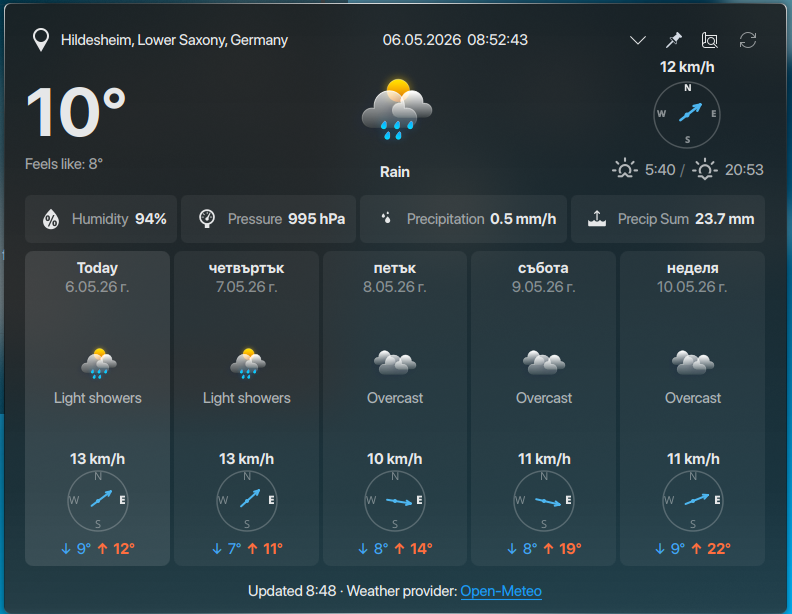
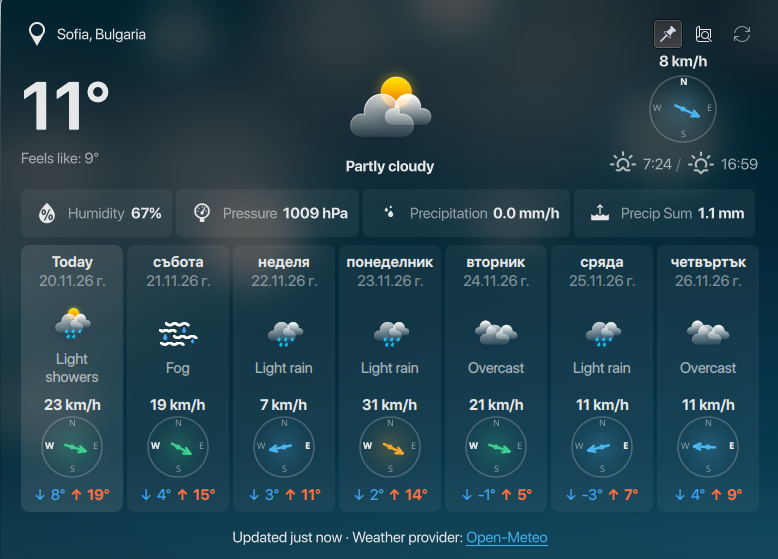
doc: update README.md screenshots

diff --git a/README.md b/README.md
@@ -141,24 +141,58 @@ python3 scripts/build_librewxr_map.py --librewxr /path/to/LibreWXR
 ### Widget layouts
 | Advanced mode (cards) | Advanced mode (list) |
 |:---:|:---:|
-| <img src="screenshots/widget/advanced/advanced mode (cards).png" width="400" alt="Advanced mode (cards)"> | <img src="screenshots/widget/advanced/advanced mode (list).png" width="400" alt="Advanced mode (list)"> |
-| Modern cards. | A clean list view. |
+| <video src="https://github.com/user-attachments/assets/ebad95fc-fb09-4e83-9db7-9eaf9e04df71" width="400" controls loop muted playsinline></video> | <img src="screenshots/widget/advanced/advanced mode (list).png" width="400" alt="Advanced mode (list)"> |
+| Animated cards (collapsed/expanded) | A clean list view |
 
-| Simple mode (default) | Super simple |
-|:---:|:---:|
-| <img src="screenshots/widget/simple/simple mode (default).png" width="400" alt="Simple mode"> | <img src="screenshots/widget/simple/super simple.png" width="400" alt="Super simple mode"> |
-| Focused view for weather without the tabs. | The most minimal view. |
-
-### Tabs
-| Forecast (strip) | Forecast (cards) | Weather maps |
+| Simple mode (default) | Simple mode (graphs) | Super simple |
 |:---:|:---:|:---:|
-| <img src="screenshots/widget/tabs/forecast-strip.png" width="300" alt="Forecast tab (strip)"> | <img src="screenshots/widget/tabs/forecast.png" width="300" alt="Forecast tab (cards)"> | <img src="screenshots/widget/tabs/radar.png" width="300" alt="Weather maps tab"> |
+| <img src="screenshots/widget/simple/simple mode (default).png" width="400" alt="Simple mode (default)"> | <img src="screenshots/widget/simple/simple mode (graphs).png" width="400" alt="Simple mode (graphs)"> | <img src="screenshots/widget/simple/super simple.png" width="400" alt="Super simple mode"> |
+| Focused view for weather without the tabs | Forecast data shown with interactive graphs | The most minimal view |
+
+### Forecast
+| Standard daily / hourly cards | Standard daily / hourly graphs | Standard daily / hourly strip |
+|:---:|:---:|:---:|
+| <img src="screenshots/widget/forecast/daily (standard)-hourly (cards).png" width="400" alt="Standard daily and hourly cards"> | <img src="screenshots/widget/forecast/daily (standard)-hourly (graphs).png" width="400" alt="Standard daily and hourly graphs"> | <img src="screenshots/widget/forecast/daily (standard)-hourly (strip).png" width="400" alt="Standard daily and hourly strip"> |
+
+| Graph daily / hourly cards | Graph daily / hourly strip |
+|:---:|:---:|
+| <img src="screenshots/widget/forecast/daily (graphs)-hourly (cards).png" width="400" alt="Graph daily and hourly cards"> | <img src="screenshots/widget/forecast/daily (graphs)-hourly (strip).png" width="400" alt="Graph daily and hourly strip"> |
+
+| Expanded graphs | Compact graphs |
+|:---:|:---:|
+| <video src="https://github.com/user-attachments/assets/ea31e407-8ad3-4e4d-93f9-be4018ffee4d" width="400" controls loop muted playsinline></video> | <video src="https://github.com/user-attachments/assets/e914e796-e6f0-461d-8e86-c1ba1cab921b" width="400" controls loop muted playsinline></video> |
+| Expanded graphs for daily and hourly forecasts | Compact daily and forecast graphs |
+
+### Weather Map
+| Overview |
+|:---:|
+| <video src="https://github.com/user-attachments/assets/78316480-1346-43d8-83fb-fe6132170b40" width="800" controls loop muted playsinline></video> |
+
+| Plain map | 3D globe with day and night | Radar and satellite |
+|:---:|:---:|:---:|
+| <img src="screenshots/widget/map/plain map.png" width="400" alt="Plain map"> | <img src="screenshots/widget/map/3d globe with day and night.png" width="400" alt="3D globe with day and night"> | <img src="screenshots/widget/map/radar and satellite.png" width="400" alt="Radar and satellite map"> |
+
+| Isobars, rain and clouds | Temperature layer | Humidity |
+|:---:|:---:|:---:|
+| <img src="screenshots/widget/map/isobar-rain-clouds.png" width="400" alt="Isobars, rain and clouds map"> | <img src="screenshots/widget/map/temperature layer.png" width="400" alt="Temperature layer map"> | <img src="screenshots/widget/map/humidity.png" width="400" alt="Humidity map"> |
+
+| Dew point | Sea level pressure | Air quality |
+|:---:|:---:|:---:|
+| <img src="screenshots/widget/map/dew point.png" width="400" alt="Dew point map"> | <img src="screenshots/widget/map/sea level pressure.png" width="400" alt="Sea level pressure map"> | <img src="screenshots/widget/map/air quality.png" width="400" alt="Air quality map"> |
+
+## Weather History
+| Overview |
+|:---:|
+| <video src="https://github.com/user-attachments/assets/103a2914-c315-4914-b3f4-e4b07c6dc299" width="800" controls loop muted playsinline></video> |
+
+| Previous day | This year | Custom range |
+|:---:|:---:|:---:|
+| <img src="screenshots/widget/history/previous day.png" width="400" alt="Previous day history"> | <img src="screenshots/widget/history/this year.png" width="400" alt="This year history"> | <img src="screenshots/widget/history/custom range.png" width="400" alt="Custom range history"> |
 
 ### Notifications
-| Regular notifications | Alert notifications |
+| Regular and alert notifications | Tomorrow forecast |
 |:---:|:---:|
-| <img src="screenshots/notifications/regular-notifications.png" width="300" alt="Regular notifications"> | <img src="screenshots/notifications/alerts-notifications.png" width="300" alt="Alert notifications with native language support"> |
-| Forecast, UV index and Kp index. | Alerts with native language support. |
+| <img src="screenshots/notifications/regular + alert notifications.png" width="400" alt="Regular and alert notifications"> | <img src="screenshots/notifications/tomorrow forecast notification.png" width="400" alt="Tomorrow forecast notification"> |
 
 # ✨ Detailed Features
 
